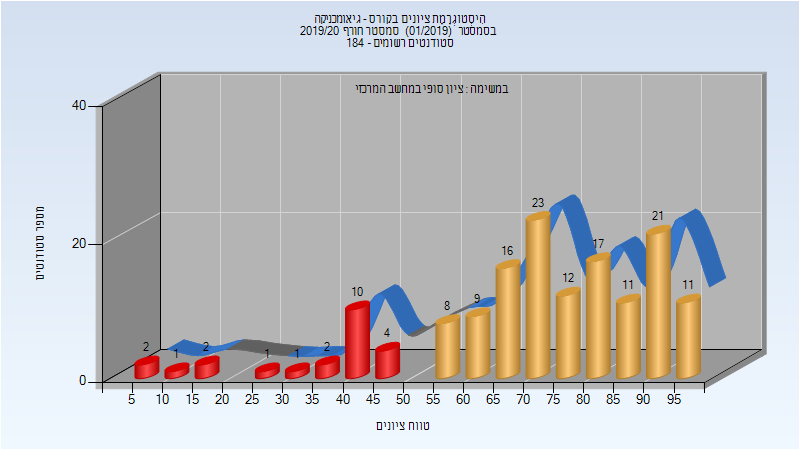
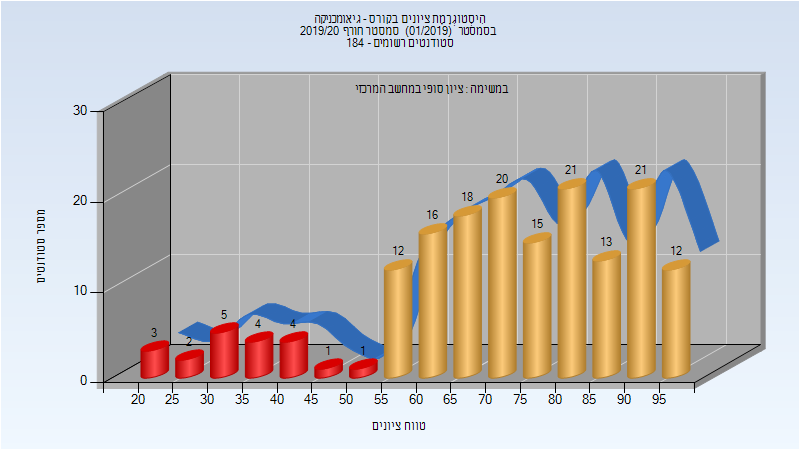
Deploy michael-maltsev/technion-histograms to github.com/michael-maltsev/technion-histograms.git:gh-pages

diff --git a/114078/index.html b/114078/index.html
@@ -310,6 +310,73 @@
 </tr>
 </tbody>
 </table>
+<h2>קיץ 2018</h2>
+<table>
+<thead>
+<tr>
+<th>איש סגל</th>
+<th>תפקיד</th>
+</tr>
+</thead>
+<tbody>
+<tr>
+<td>עכאשה מוחמד</td>
+<td>מרצה - אחראי מקצוע</td>
+</tr>
+</tbody>
+</table>
+<h3>סופי מועד א'</h3>
+<p><img src="201703/Final_A.png" alt="201703 Final_A" /></p>
+<table>
+<thead>
+<tr>
+<th>סטודנטים</th>
+<th>עברו/נכשלו</th>
+<th>אחוז עוברים</th>
+<th>ציון מינימלי</th>
+<th>ציון מקסימלי</th>
+<th>ממוצע</th>
+<th>חציון</th>
+</tr>
+</thead>
+<tbody>
+<tr>
+<td>25</td>
+<td>21/4</td>
+<td>84</td>
+<td>35</td>
+<td>100</td>
+<td>77.4</td>
+<td>81</td>
+</tr>
+</tbody>
+</table>
+<h3>סופי</h3>
+<p><img src="201703/Finals.png" alt="201703 Finals" /></p>
+<table>
+<thead>
+<tr>
+<th>סטודנטים</th>
+<th>עברו/נכשלו</th>
+<th>אחוז עוברים</th>
+<th>ציון מינימלי</th>
+<th>ציון מקסימלי</th>
+<th>ממוצע</th>
+<th>חציון</th>
+</tr>
+</thead>
+<tbody>
+<tr>
+<td>34</td>
+<td>32/2</td>
+<td>94</td>
+<td>46</td>
+<td>100</td>
+<td>78.353</td>
+<td>79.5</td>
+</tr>
+</tbody>
+</table>
 <h2>חורף 2018-2019</h2>
 <table>
 <thead>

diff --git a/114078/README.md b/114078/README.md
@@ -94,6 +94,28 @@
 | ---- | ---- | ---- | ---- | ---- | ---- | ---- |
 | 94 | 90/4 | 96 | 21 | 100 | 75.17 | 75.5 |
 
+## קיץ 2018
+
+| איש סגל | תפקיד |
+| ---- | ---- |
+| עכאשה מוחמד | מרצה - אחראי מקצוע |
+
+### סופי מועד א'
+
+![201703 Final_A](201703/Final_A.png)
+
+| סטודנטים | עברו/נכשלו | אחוז עוברים | ציון מינימלי | ציון מקסימלי | ממוצע | חציון |
+| ---- | ---- | ---- | ---- | ---- | ---- | ---- |
+| 25 | 21/4 | 84 | 35 | 100 | 77.4 | 81 |
+
+### סופי
+
+![201703 Finals](201703/Finals.png)
+
+| סטודנטים | עברו/נכשלו | אחוז עוברים | ציון מינימלי | ציון מקסימלי | ממוצע | חציון |
+| ---- | ---- | ---- | ---- | ---- | ---- | ---- |
+| 34 | 32/2 | 94 | 46 | 100 | 78.353 | 79.5 |
+
 ## חורף 2018-2019
 
 | איש סגל | תפקיד |
